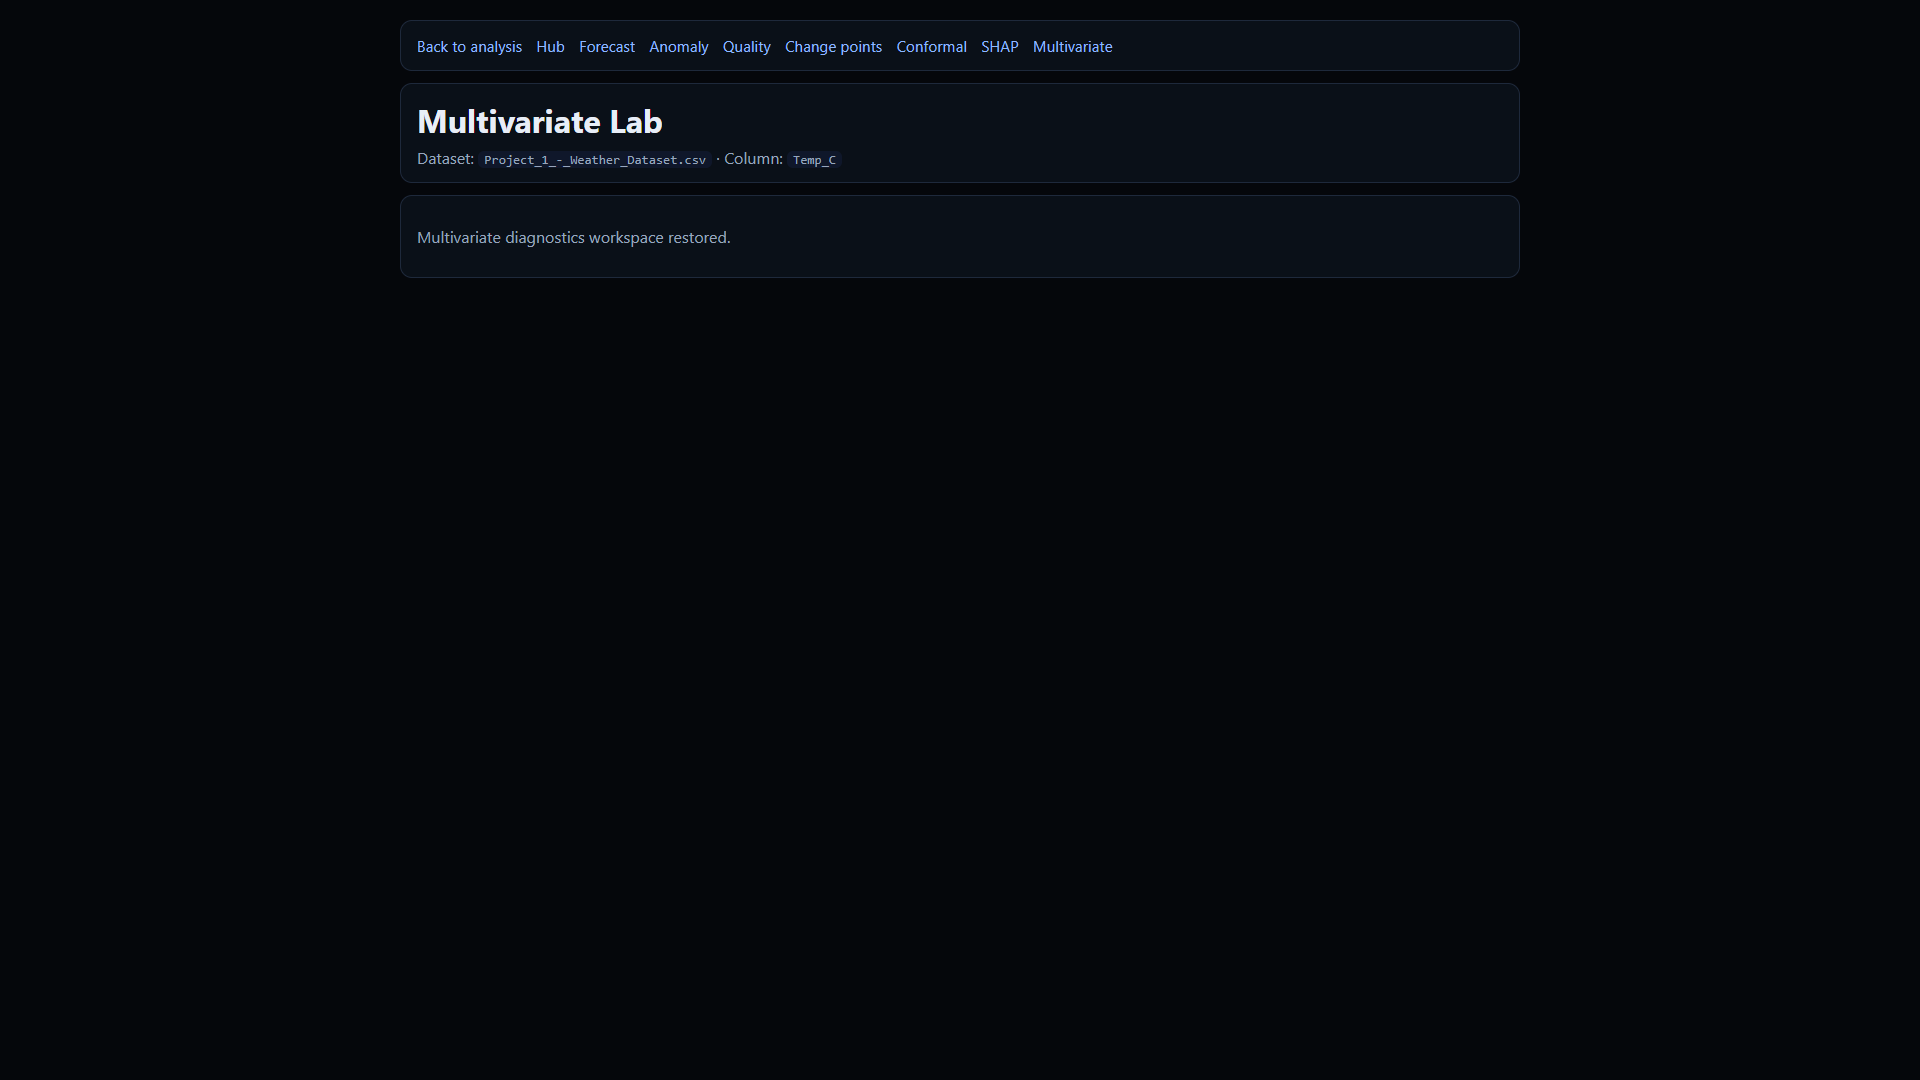
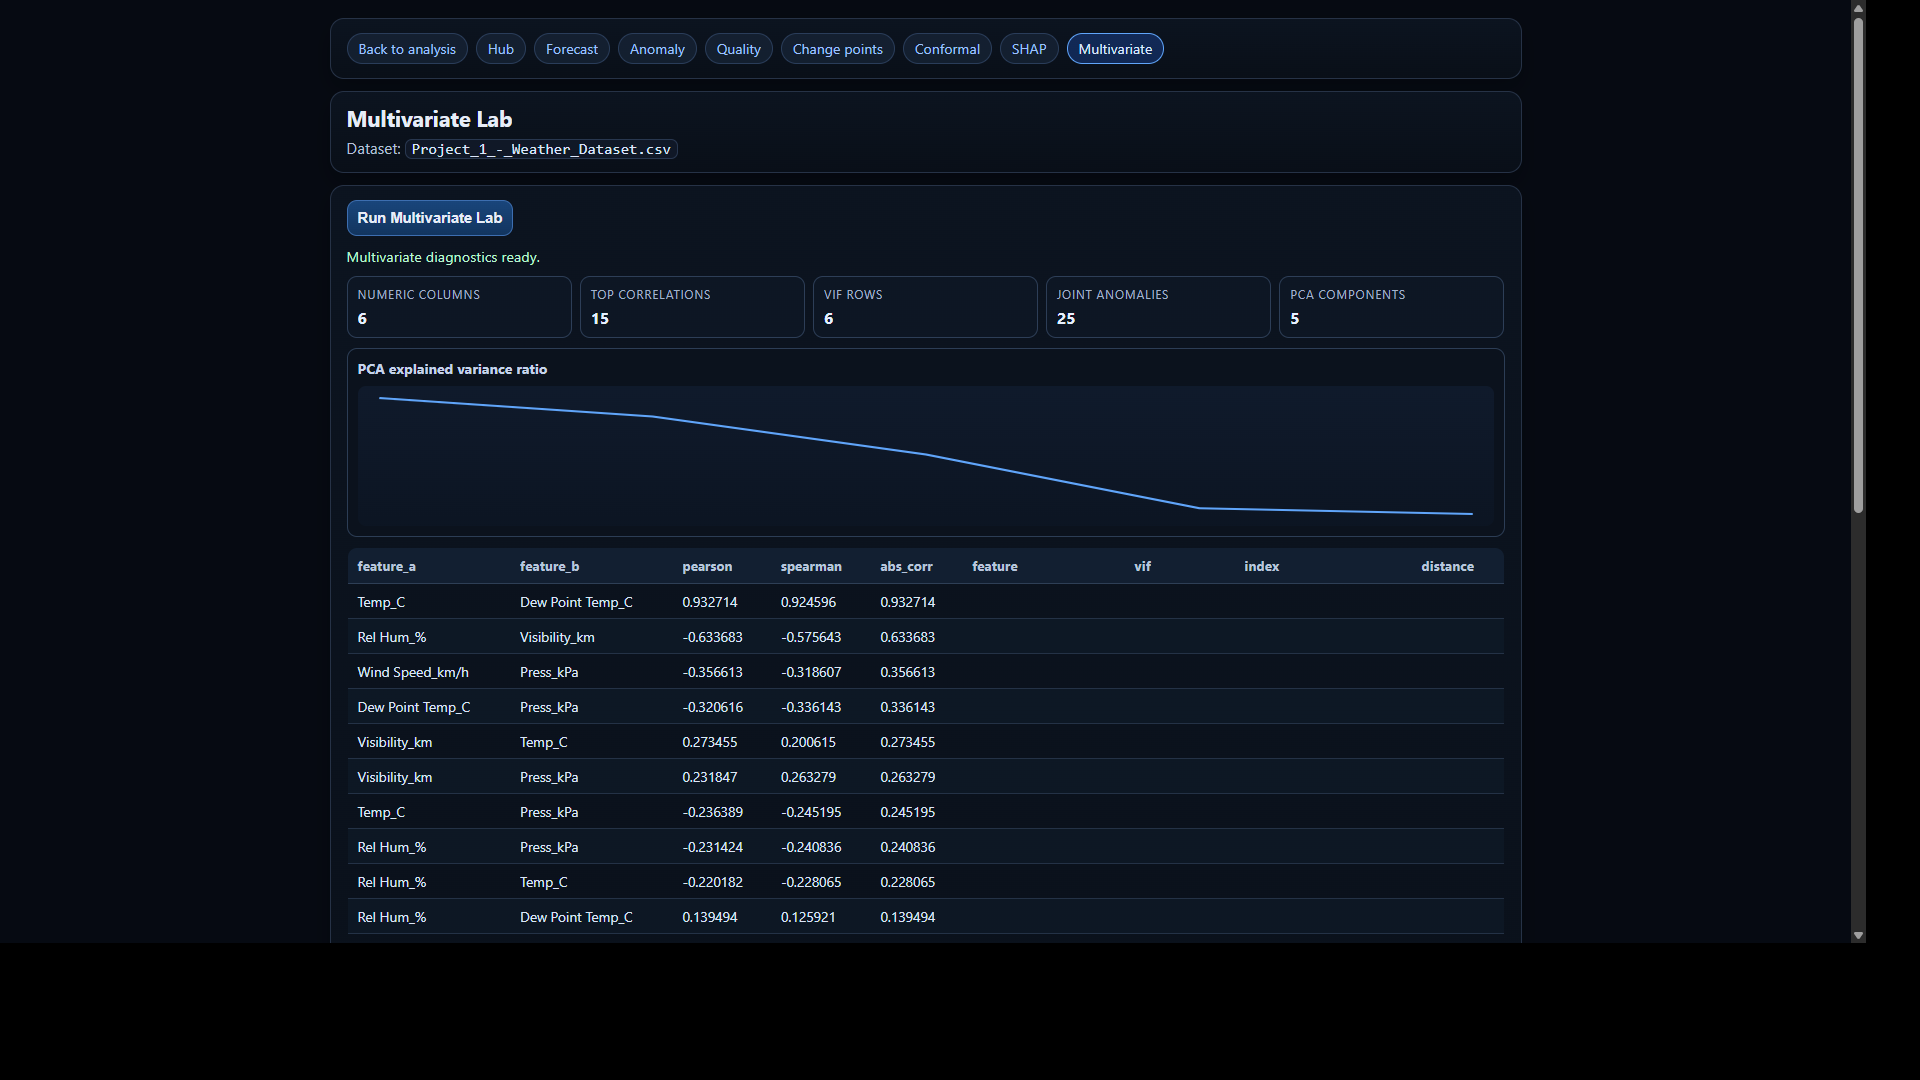
Update readme for research

Changed region(s): [[0.1562, 0.0306, 0.7812, 0.8861], [0.9375, 0.0, 0.9688, 0.8556]]

diff --git a/README.md b/README.md
@@ -18,14 +18,14 @@ A Flask-based data analysis workspace for uploading real datasets, exploring the
   - full report HTML
   - full report PDF
 - Support **three UI themes**: AMOLED, Light, Dark.
-- Offer a restored **Research Labs hub** with pages for:
-  - Forecast
-  - Anomaly
-  - Quality
-  - Change Points
-  - Conformal
-  - SHAP
-  - Multivariate
+- Offer a fully functional **Research Labs hub** with API-backed pages for:
+  - Forecast (history/forecast diagnostics + backtest + anomaly overlap)
+  - Anomaly (severity-ranked outliers)
+  - Quality (quality score + issue inventory)
+  - Change Points (baseline + optional advanced detector)
+  - Conformal (empirical coverage and interval bands)
+  - SHAP (TreeSHAP when available, surrogate fallback otherwise)
+  - Multivariate (correlation, PCA, VIF, joint anomaly scan)
 
 ---
 
@@ -59,6 +59,13 @@ All screenshots below were captured from the current app using datasets in `data
 | Detailed Analysis (AMOLED) | ![Weather Detailed AMOLED](screenshots/weather_detailed_amoled.png) |
 | Correlation (AMOLED) | ![Weather Correlation AMOLED](screenshots/weather_correlation_amoled.png) |
 | Categories (AMOLED) | ![Weather Categories AMOLED](screenshots/weather_categories_amoled.png) |
+
+### Requested page refresh (latest capture)
+
+| Page | Screenshot |
+|---|---|
+| Analysis Overview — `Project 1 - Weather Dataset.csv` | ![Weather Overview AMOLED](screenshots/weather_overview_amoled.png) |
+| Labs Multivariate — `Project 1 - Weather Dataset.csv` | ![Weather Labs Multivariate AMOLED](screenshots/weather_labs_multivariate_amoled.png) |
 
 > ✅ Categories behavior update: the active temporal-axis column is now filtered out of category charts to avoid self-count temporal noise.
 
@@ -127,13 +134,20 @@ All screenshots below were captured from the current app using datasets in `data
 - Local caching for expensive computations (numeric transforms, anomalies, correlation, heatmaps, forecasts).
 - Downsampling-aware interactive handling for large datasets.
 
+### Research Labs (implemented)
+- New Labs API contract:
+  - `GET /api/labs/<filename>/meta`
+  - `GET /api/labs/<filename>/<lab_key>`
+- Standardized response envelope (`ok`, `lab`, `data`, `warnings`, `cached`, `schema_version`).
+- Labs runtime frontend (`research_labs.js` + `research_labs.css`) shared across all lab pages.
+- Bounded Labs cache using configurable `LAB_CACHE_MAX_ITEMS` / `LAB_CACHE_MAX_MB`.
+
 ---
 
 ## 🚧 Work in progress
 
 The project currently has active ongoing work in these areas:
 
-- **Research labs depth**: lab pages are restored and navigable, with incremental backend depth being expanded across advanced methods.
 - **AI prompt/runtime robustness**: improving long-summary reliability, quota-aware fallbacks, and response quality consistency.
 - **UI/UX iteration**: refining layout density, theme consistency, and per-view ergonomics for large datasets.
 - **Export consistency improvements**: ongoing harmonization between on-page charts and ZIP/PDF outputs.
